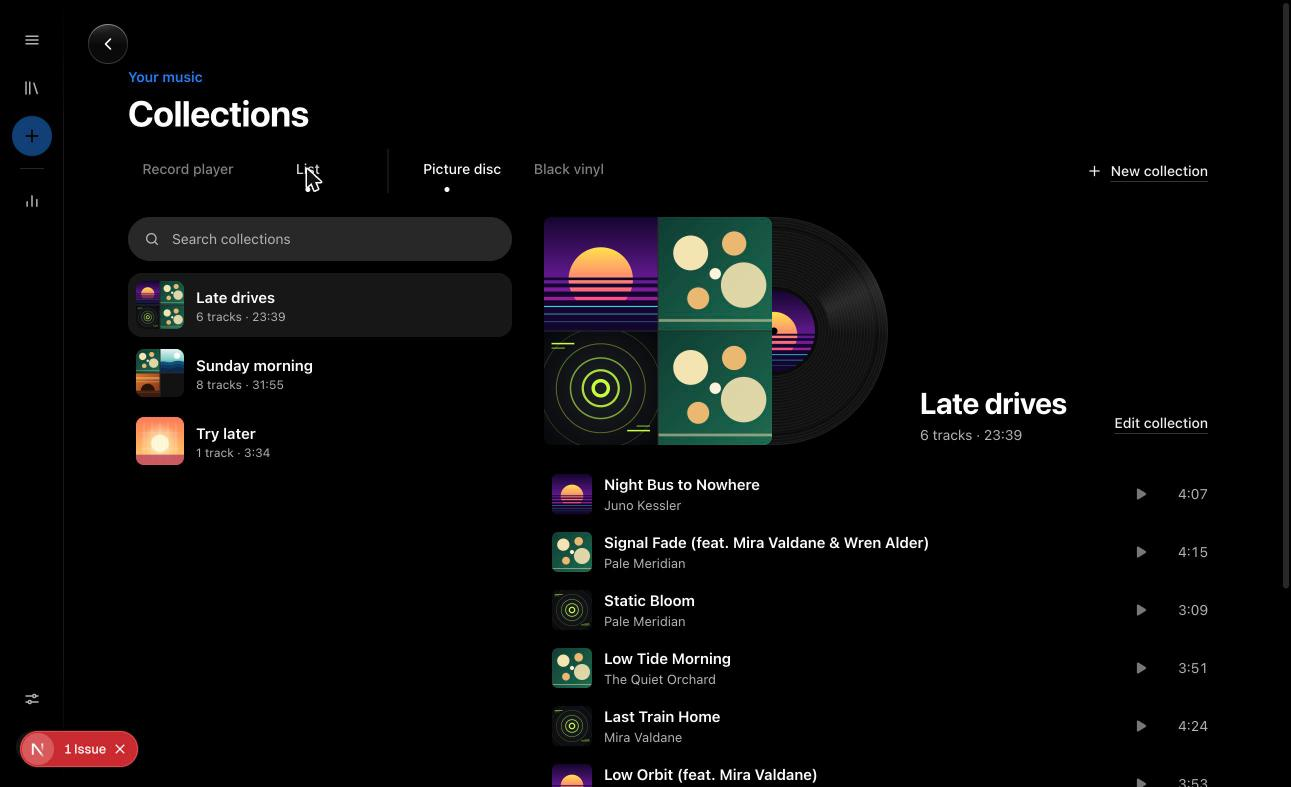
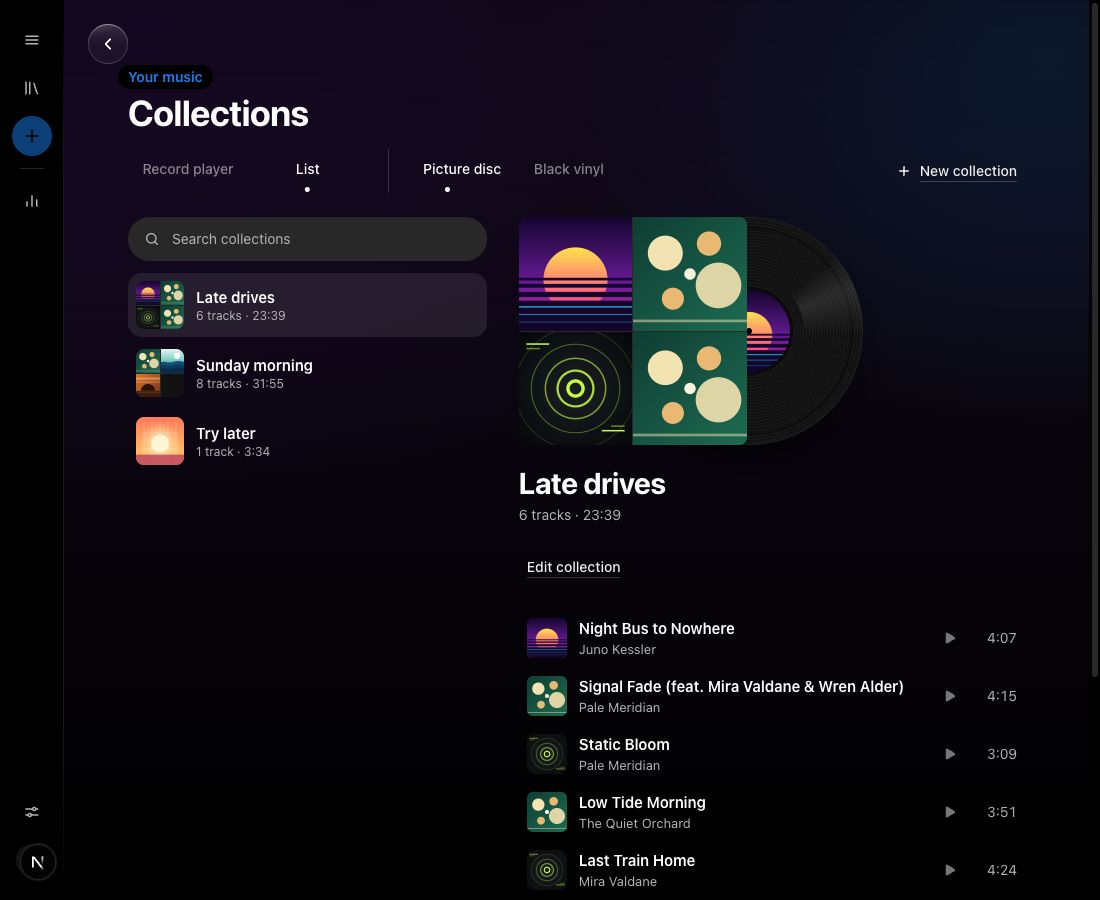
Collection page: cover-colour wash, stacked header, calmer press sweep (#369)
Claude-Session: https://claude.ai/code/session_01NeXGzQ5gYG6DzPD3bPBBBq

diff --git a/apps/web/src/components/CollectionsView.tsx b/apps/web/src/components/CollectionsView.tsx
@@ -24,6 +24,7 @@ import {
   type CollectionRow,
 } from "../lib/collections";
 import { coverUrl } from "../lib/api-client";
+import { useArtworkPalette } from "../lib/use-artwork-palette";
 import { formatLength } from "../lib/adopt-review";
 import { normalizeSearchText } from "../lib/library-sections";
 import { playerStore, usePlayerSelector, usePlayerState } from "../lib/play-queue";
@@ -36,6 +37,7 @@ import {
   type CollectionsViewMode,
   type SpinningRecord,
 } from "../lib/record-player";
+import AmbientBackdrop from "./AmbientBackdrop";
 import { useCollections } from "./CollectionsContext";
 import CollectionSleeve from "./CollectionSleeve";
 import RecordSleeve from "./RecordSleeve";
@@ -174,7 +176,7 @@ export default function CollectionsView({ releases, selectedId, onSelect, onAddT
           )}
         />
       ) : (
-        <div className="grid gap-8 lg:grid-cols-[minmax(0,24rem)_minmax(0,1fr)]">
+        <div className="grid gap-8 lg:grid-cols-[minmax(0,min(24rem,40%))_minmax(0,1fr)]">
           <section aria-label="Your collections" className="flex min-w-0 flex-col gap-3">
             <div className="relative">
               <SearchIcon className="pointer-events-none absolute left-4 top-1/2 h-4 w-4 -translate-y-1/2 text-text-muted" />
@@ -261,7 +263,7 @@ function Switch<T extends string>({
 /** Quiet placeholders in the final shapes while the store is first read: no spinner. */
 function Placeholders() {
   return (
-    <div aria-busy="true" aria-label="Loading collections" className="grid gap-8 lg:grid-cols-[minmax(0,24rem)_minmax(0,1fr)]">
+    <div aria-busy="true" aria-label="Loading collections" className="grid gap-8 lg:grid-cols-[minmax(0,min(24rem,40%))_minmax(0,1fr)]">
       <div className="flex flex-col gap-1">
         {[0, 1, 2].map((i) => (
           <div key={i} className="flex min-h-14 items-center gap-3 p-2">
@@ -320,6 +322,8 @@ function QueuePanel({
   const firstCover = collectionCoverIds(collection.items, releases)[0];
   const firstRelease = firstCover ? releases.find((r) => r.id === firstCover) : undefined;
   const labelUrl = firstRelease ? coverUrl(firstRelease.id, firstRelease.updatedAt) : null;
+  // The release page's cover-colour wash, from the collection's first cover (not under the record player's deck).
+  const palette = useArtworkPalette(deck ? null : labelUrl);
 
   function commitName() {
     const clean = cleanCollectionName(name);
@@ -334,7 +338,13 @@ function QueuePanel({
   const empty = collection.items.length === 0;
   return (
     <section aria-label={collection.name} className="flex min-w-0 flex-col gap-5">
-      <div className={`flex flex-wrap gap-x-8 gap-y-5 ${deck ? "items-center" : "items-end"}`}>
+      {!deck && (
+        <>
+          <AmbientBackdrop palette={palette} />
+          <div aria-hidden className="st-scrim" />
+        </>
+      )}
+      <div className={`flex gap-x-8 gap-y-5 ${deck ? "flex-wrap items-center" : "flex-col items-start"}`}>
         {!deck && (
           <RecordSleeve labelUrl={labelUrl} spin={0} turning={queueOfThis && playing}>
             {editing ? (
@@ -354,7 +364,7 @@ function QueuePanel({
             )}
           </RecordSleeve>
         )}
-        <div className="min-w-0 flex-1">
+        <div className="w-full min-w-0">
           {editing ? (
             <input
               type="text"
@@ -372,7 +382,7 @@ function QueuePanel({
               className="min-h-11 w-full rounded-[12px] bg-elevated px-3 text-2xl font-bold tracking-[-0.02em] text-text outline-none focus-visible:ring-2 focus-visible:ring-accent"
             />
           ) : (
-            <h2 className={`truncate font-bold tracking-[-0.02em] text-text ${deck ? "text-xl" : "text-3xl"}`}>{collection.name}</h2>
+            <h2 className={`font-bold tracking-[-0.02em] text-text ${deck ? "truncate text-xl" : "break-words text-3xl [text-wrap:balance]"}`}>{collection.name}</h2>
           )}
           <p className="mt-1 text-sm text-text-muted">
             {trackCountLabel(totals.tracks)}

diff --git a/apps/web/src/app/globals.css b/apps/web/src/app/globals.css
@@ -281,7 +281,8 @@ body {
   pointer-events: none;
   opacity: 0;
   background: linear-gradient(105deg, transparent 38%, rgb(255 255 255 / 0.22) 50%, transparent 62%);
-  animation: cover-press-sweep 760ms cubic-bezier(0.16, 1, 0.3, 1);
+  /* Eased in and out like the button shimmer below; the expo-out would cross the face too fast. */
+  animation: cover-press-sweep 760ms cubic-bezier(0.45, 0, 0.55, 1);
 }
 
 /* The sleeve: a printed cardboard square with a faint edge highlight. */

diff --git a/docs/design.md b/docs/design.md
@@ -886,7 +886,7 @@ Previews: `docs/design-previews/339-mac-list/`. The record player look is a late
 
 - **The Library row.** A "Collections" section above Singles and Albums, with the same fold button as theirs (title, count, turning chevron, remembered in localStorage as `locally.library.collectionsFolded`; a typed search opens it). Inside, a slim row (it scrolls sideways when long) of 208 x 56 buttons: the collection's sleeve (48 px, radius 8), its name (15 semibold, one line) and "6 tracks" (12 `text-muted`), then **New collection** (a `btn-ink`, 44 tall) which opens a name field in place and, once made, opens the new collection. With none: "Make your first collection: a mixtape of any tracks and releases." in `text-muted` 14, and the same button. The Library's bulk bar gains **Add to collection** (adds the selected releases as release items).
 - **The sleeve.** Never stored; the first four different covers among the items, as a 2 x 2 grid with a 1 px `border` gap, one cover when there is one, the empty note on `card` when none. A square from the first paint (the size is the box), so nothing shifts as covers load.
-- **The Collections page.** Eyebrow "Your music", title "Collections", **New collection** at the right. Below `lg` one column; from `lg` two: a 24 rem list on the left (search field, then rows of 48 px sleeve, name, "6 tracks · 23:39"; the chosen row is `white/9 %` and `aria-current`) and the chosen collection on the right: a 96 px sleeve, the name (24 bold), the count and length, **Play** (the lit save button; **Pause** while this collection plays) and **Edit collection**. Below, the queue: "Side A" and "Side B" headings (14 medium `text-muted`, the queue split in half, the extra track on A) over rows of a 40 px cover, title, artist, a play mark and the length; the playing row's title is `accent`. A tap plays the queue from there (the same row pauses it). A track whose file is gone is dimmed, says "Missing" and is skipped when playing. Items this Mac can't resolve are hidden and stay in the collection.
+- **The Collections page.** Eyebrow "Your music", title "Collections", **New collection** at the right. Below `lg` one column; from `lg` two: a 24 rem list on the left (search field, then rows of 48 px sleeve, name, "6 tracks · 23:39"; the chosen row is `white/9 %` and `aria-current`) and the chosen collection on the right, laid out like an album page. It sits on the release page's cover-colour wash (`AmbientBackdrop`, coloured from the collection's first cover, the same release the 2x2 sleeve shows; neutral grey with no cover) with the artist page's `st-scrim` over it so the muted text keeps 4.5:1 on pale covers. From the top: the sleeve (184 px, 228 px from `sm`) with the disc peeking out, which turns while this collection plays; the sleeve's cover is a button that plays, pauses or resumes the collection (aria-label "Play / Pause / Resume <name>"), with one soft sweep of light (760 ms, eased in and out) per press, and there is no separate Play button; the name (30 bold, wraps, never truncates, `text-wrap: balance`); the count and length line in `text-muted`; then **Edit collection** underneath. Below, the queue as one list (no sides) of rows of a 40 px cover, title, artist, a play mark and the length; the playing row's title is `accent`. A tap plays the queue from there (the same row pauses it). A track whose file is gone is dimmed, says "Missing" and is skipped when playing. Items this Mac can't resolve are hidden and stay in the collection.
 - **States** use the plan's wording word for word: no collections (the first-collection line with **New collection**), an empty collection ("Nothing here yet. Add tracks from any release or track row." with **Add tracks**, which opens the Library; Play is disabled), nothing playable ("None of these tracks are on this Mac." and Play disabled), loading (rows and queue as quiet `card` shapes in their final sizes, no spinner), failure ("Couldn't load your collections" with **Try again**).
 - **Edit collection.** The name becomes a field; the queue becomes a list of items (a release item is one row, "Release · 6 tracks"). Each row: a grip (44 px), the cover, name and kind, a "..." menu (44 px) with **Move up**, **Move down**, **Remove from collection**, and an X (44 px). Drag by the grip (an accent line shows the drop; Escape cancels), or focus a row and press Option-Up or Option-Down; a polite live region says "Moved to 3 of 12". **Delete collection...** asks with the release bar's inline confirm ("Delete "Late drives"? The tracks stay in your library.", Cancel first), never a browser dialog. Every change saves at once.
 - **Add to collection.** An icon button (44 px, a plus, named "Add {title} to a collection") in each track row's actions, quiet until the row is hovered or focused, and a right-click on the row when it has no disc menu; and a text button on the release bar and the Library's selection bar. It opens a small glass menu (`role=menu`) in the overlay layer: focus moves in, the arrow keys, Home and End walk the items, Escape closes it and returns focus to the button, a press outside or Tab closes it. A search field comes first once there are more than 8 collections. Items: each collection (name, "3 items", or "Added" when everything is already in it) and **New collection...**, which swaps the list for a name field and "Create and add". The result is said in a polite live region ("Added to Late drives", "Already in Late drives").
